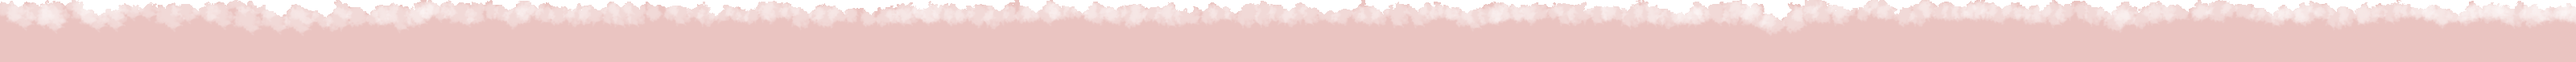
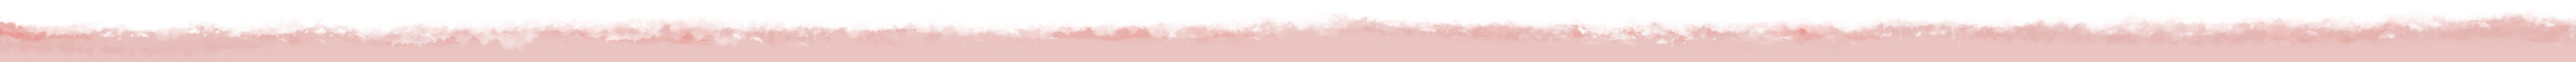
separador gris agregado

diff --git a/index.html b/index.html
@@ -93,7 +93,7 @@
                 </div>
             </div>
         </div>
-        <img src="images/3.png" class="separador d-flex align-self-end">
+        <img src="images/separador_gris.png" class="separador d-flex align-self-end">
     </div>
     <div id="facilitadoras" class="hidden_contenedor">
         <div class="container">

diff --git a/css/styles.css b/css/styles.css
@@ -150,7 +150,7 @@ height: 10px;
 #facilitadoras{
     padding: 0 0 0 0;
     background-color: #ced8db;
-    background-image: url("../images/fondo_rosfa.png");
+    background-image: url("../images/separador_gris.png");
     background-repeat: no-repeat;
     background-size: cover;
     background-position: top;    
